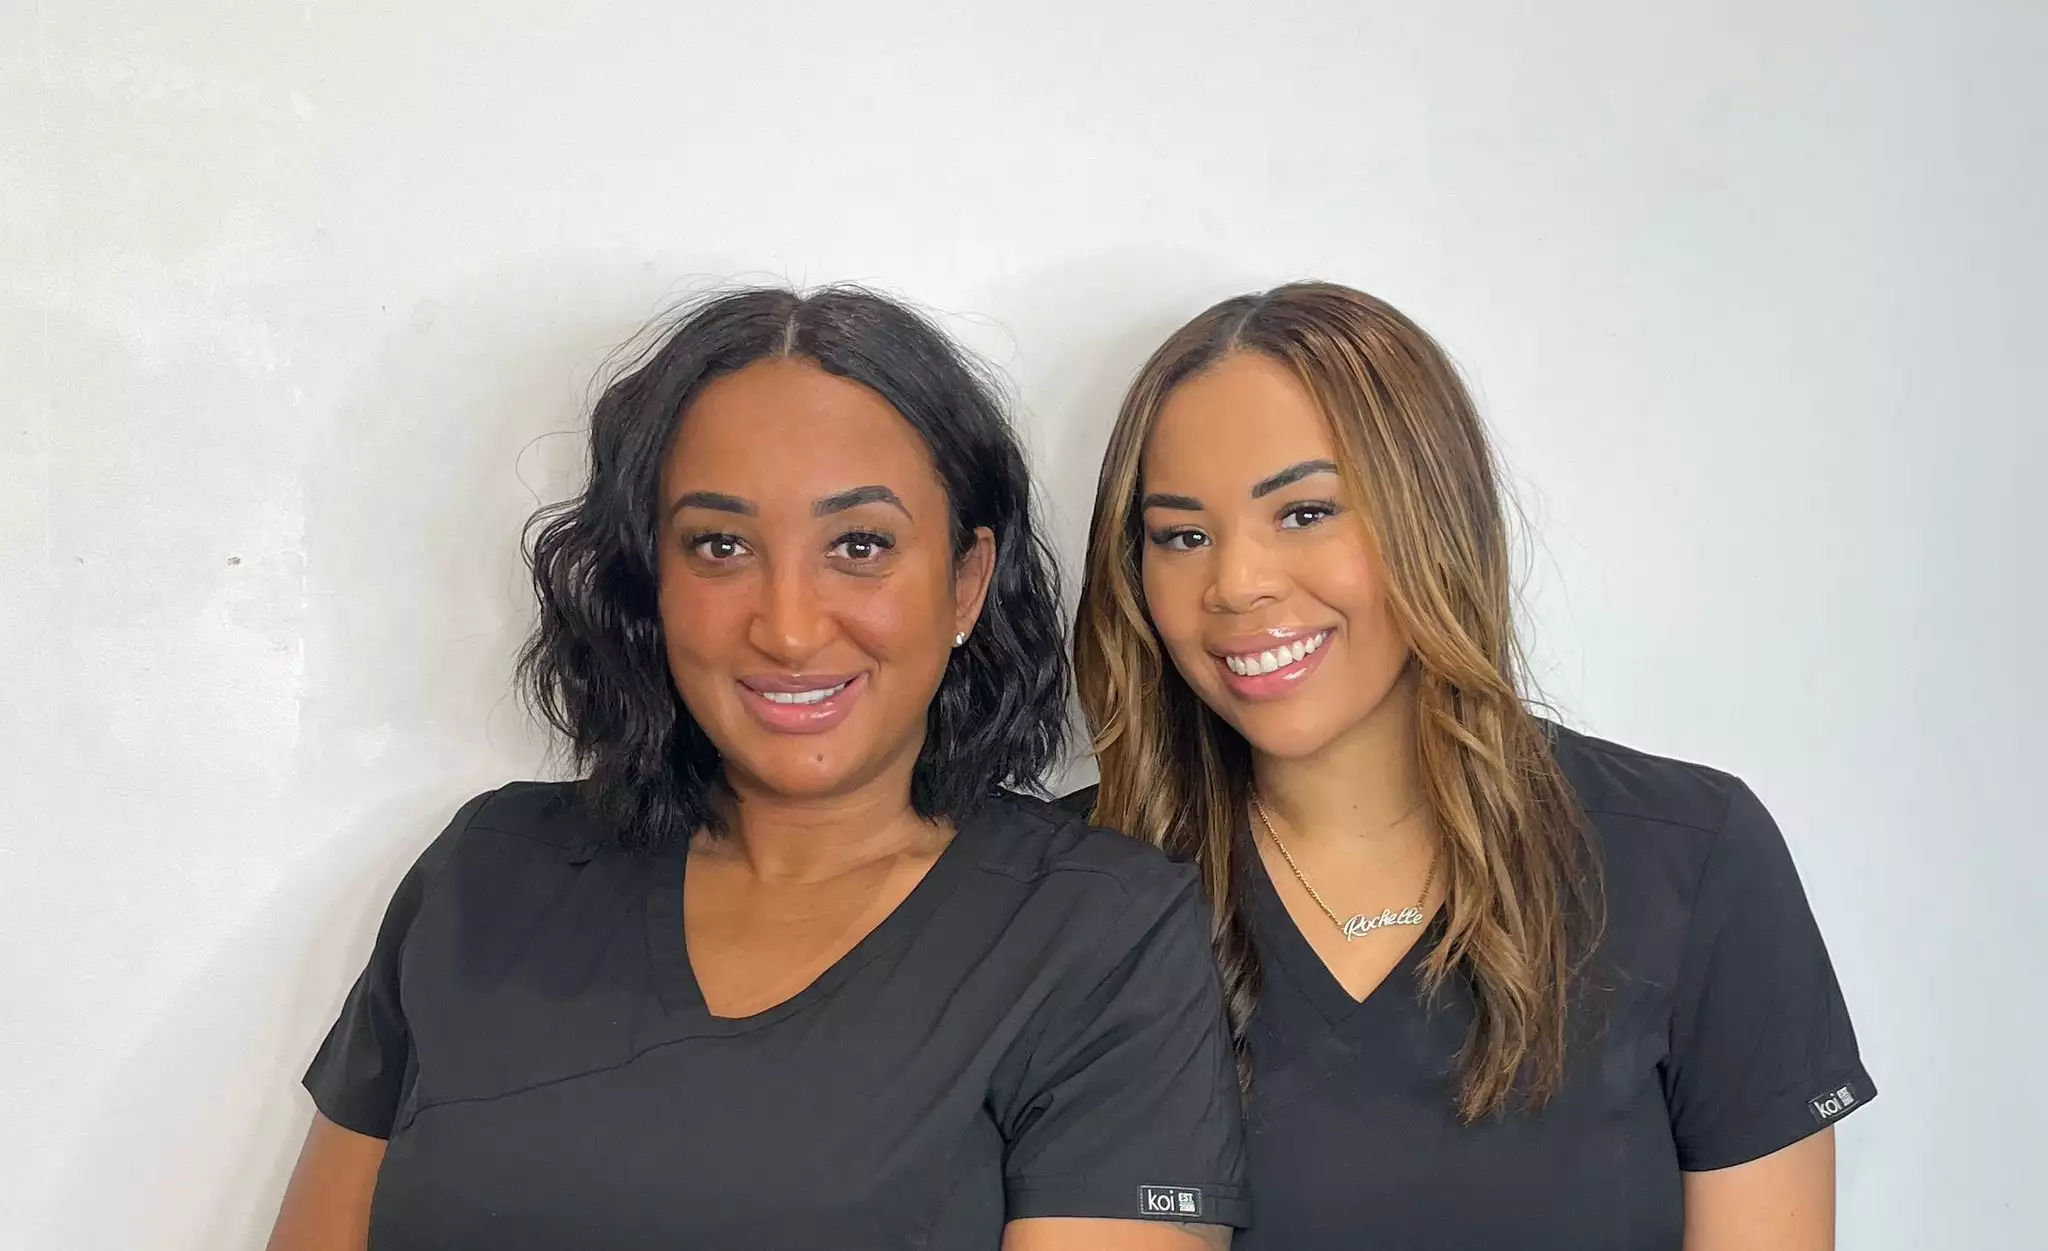
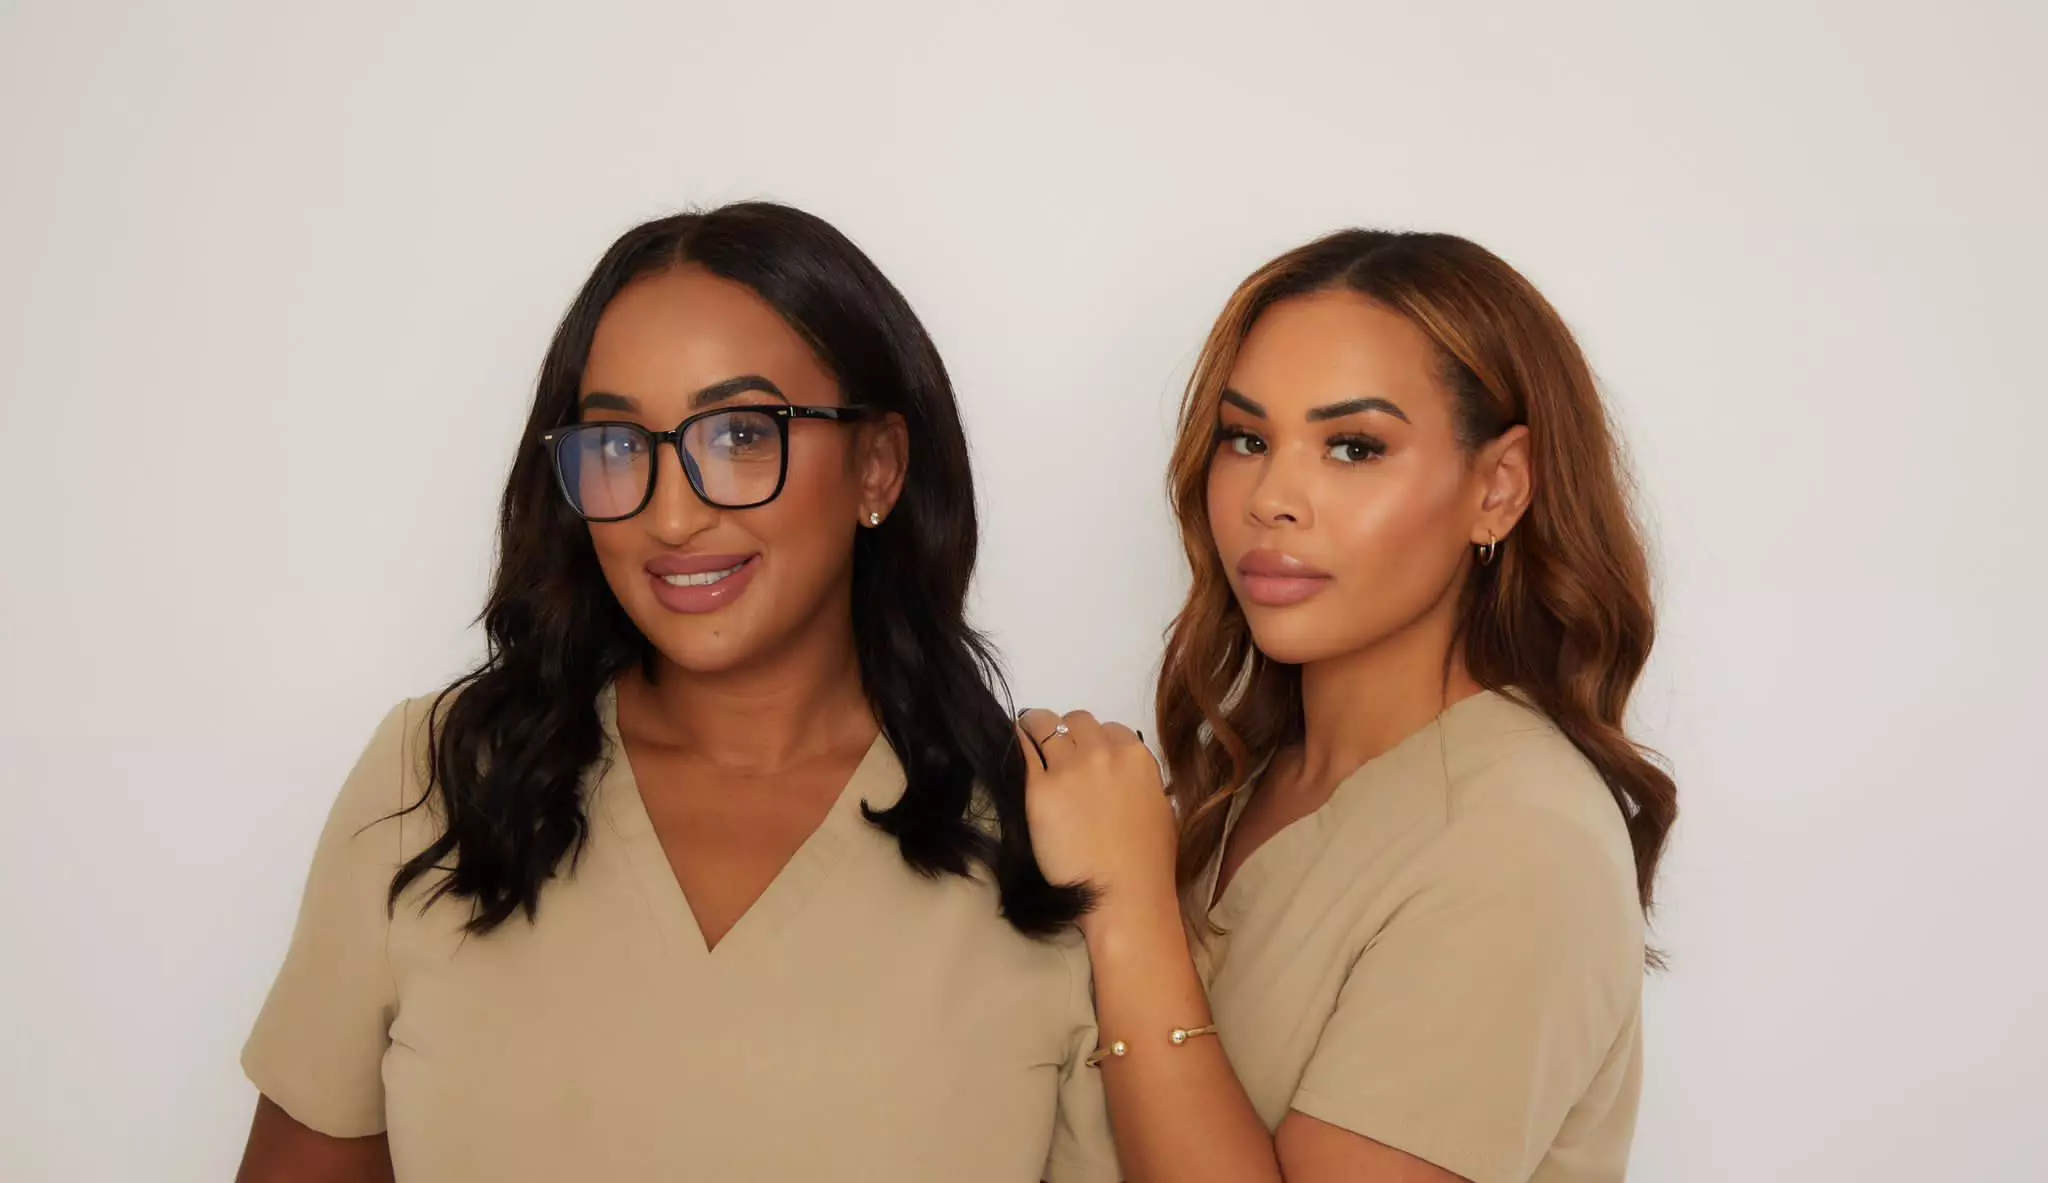
added stuff

diff --git a/src/pages/index.js b/src/pages/index.js
@@ -10,7 +10,11 @@ export default function HomePage() {
   return (
     <div>
       <Head />
-      <Hero height="90vh" overlayColor="var(--green-25)">
+      <Hero
+        height="90vh"
+        overlayColor="var(--green-25)"
+        img="/img/headers/homenew.webp"
+      >
         <div className="content">
           <h1 className="feature-font">The Cosmetic Lounge</h1>
           <div className="buttons">
